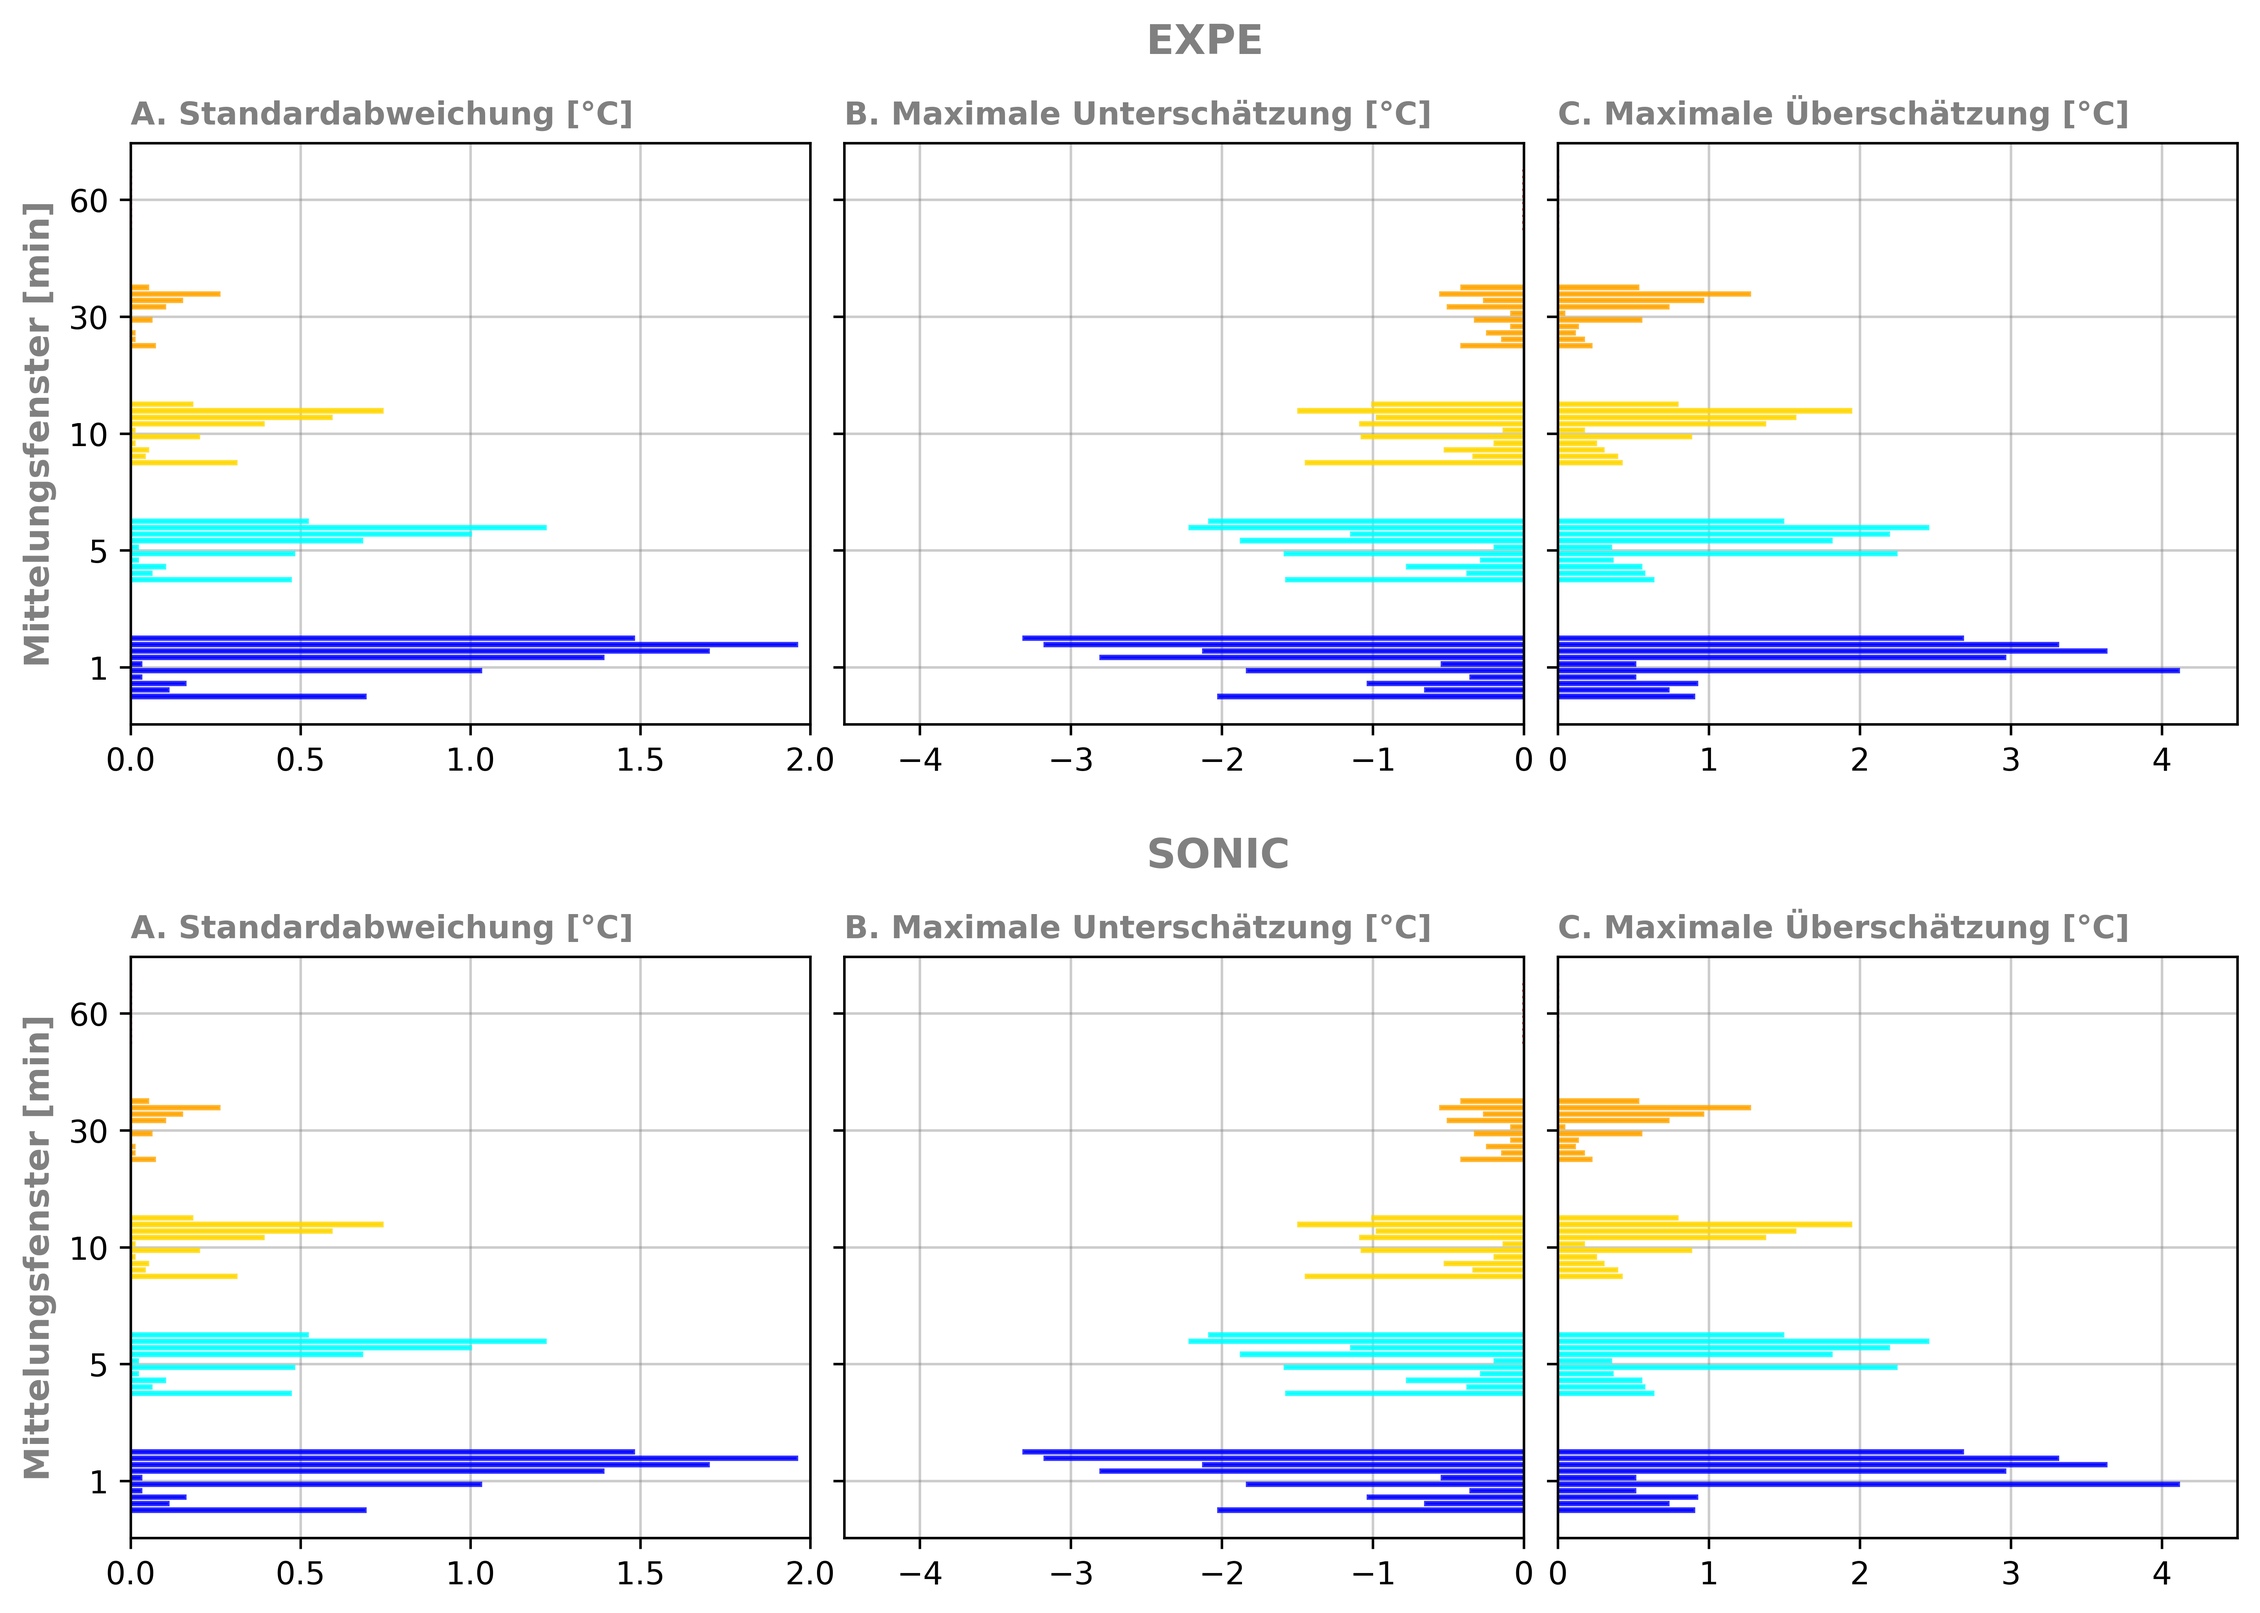
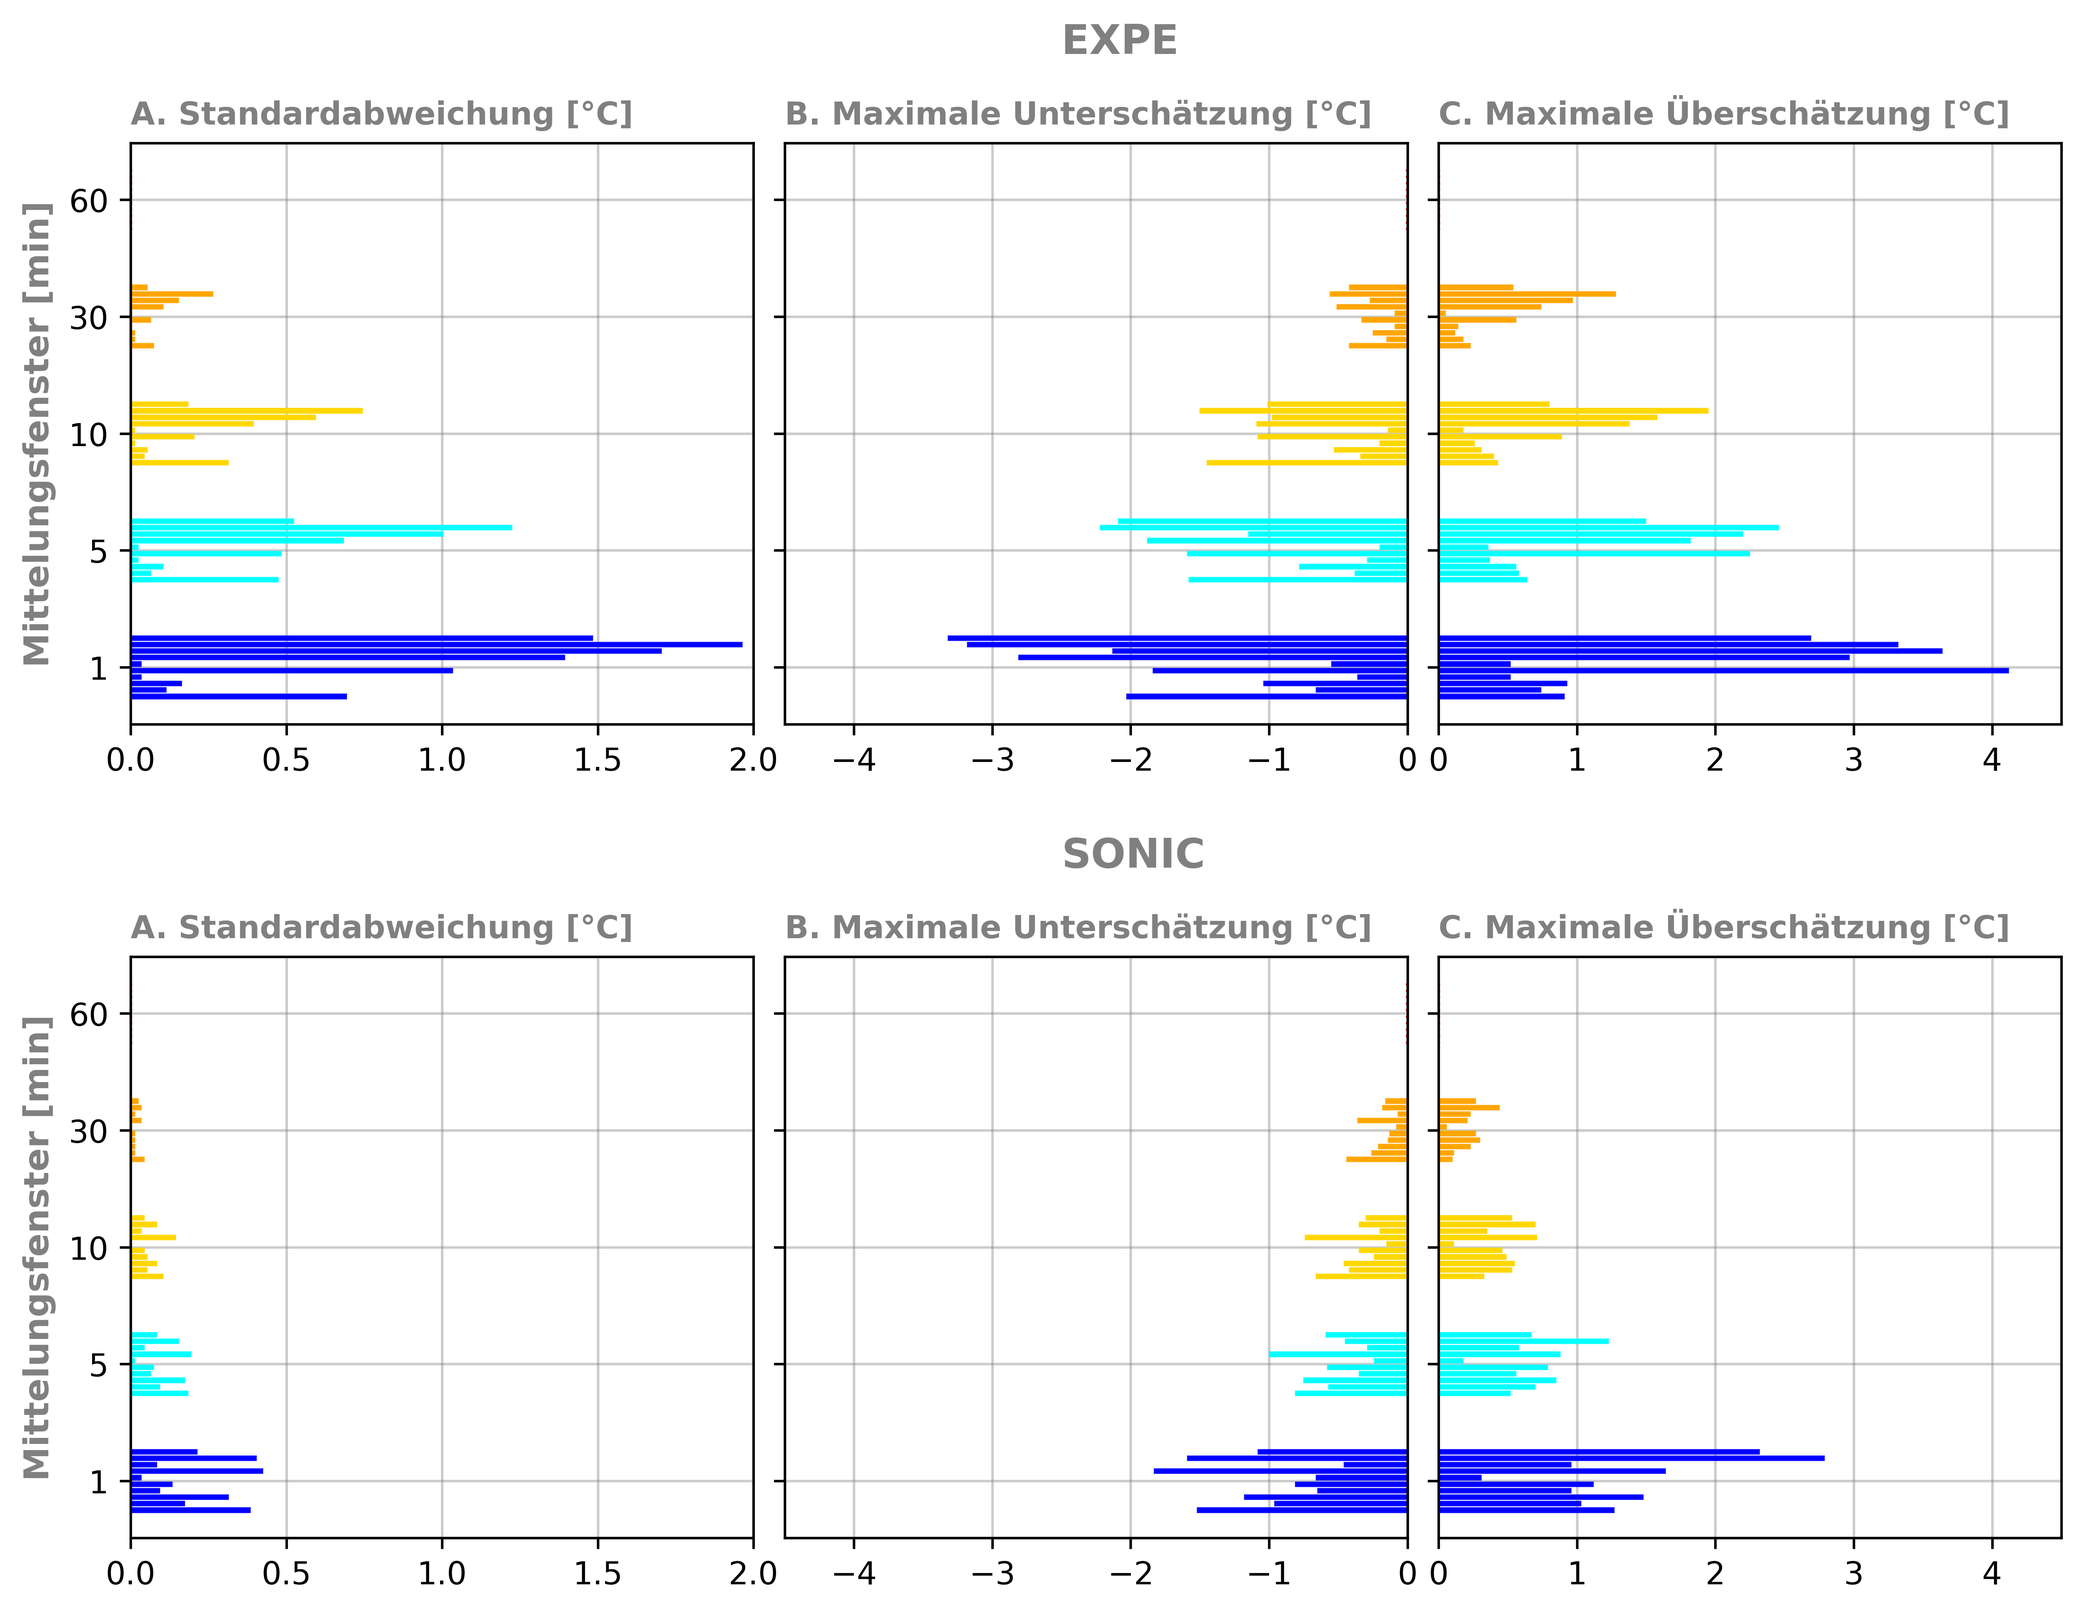
🐛 Fix plotting bug in error_metrics

diff --git a/src/Python_3_11_3/main_plotting.py b/src/Python_3_11_3/main_plotting.py
@@ -117,30 +117,30 @@ if PLOT_AVERAGING:
     print("Plot averaging...")
     error_metrics = pd.DataFrame()
     
-    for period in all_puos:
-        _, _, start_datetime, end_datetime, date, _ = metadata(period)
+    # for period in all_puos:
+    #     _, _, start_datetime, end_datetime, date, _ = metadata(period)
         
-        for device in ["EXPE", "SONIC"]:
-            print("\t", period, "&", device)
+    #     for device in ["EXPE", "SONIC"]:
+    #         print("\t", period, "&", device)
 
 
 
-            for var in variables[device]:
-                error_metrics_dict = plot_avg(
-                    x=get_var(device, period, "Datetime"),
-                    y=get_var(device, period, var),
-                    device=device,
-                    title=f"""{labels[var]}\n{date}: {start_datetime[10:-3]} - {end_datetime[10:-3]}\n({device}, {SAMPLE_RATE[device]} Hz)""",
-                    fn=f"avg_{period}_{device}_{var}"
-                    )
+    #         for var in variables[device]:
+    #             error_metrics_dict = plot_avg(
+    #                 x=get_var(device, period, "Datetime"),
+    #                 y=get_var(device, period, var),
+    #                 device=device,
+    #                 title=f"""{labels[var]}\n{date}: {start_datetime[10:-3]} - {end_datetime[10:-3]}\n({device}, {SAMPLE_RATE[device]} Hz)""",
+    #                 fn=f"avg_{period}_{device}_{var}"
+    #                 )
                 
-                error_metrics_dict["PUO"] = period
-                error_metrics_dict["Device"] = device
-                error_metrics_dict["Variable"] = var
+    #             error_metrics_dict["PUO"] = period
+    #             error_metrics_dict["Device"] = device
+    #             error_metrics_dict["Variable"] = var
                 
-                error_metrics = error_metrics.append(error_metrics_dict, ignore_index=True)
+    #             error_metrics = error_metrics.append(error_metrics_dict, ignore_index=True)
                 
-    error_metrics.to_csv("data/avg_error_metrics.csv", index=False)
+    # error_metrics.to_csv("data/avg_error_metrics.csv", index=False)
 
     plot_error_metrics()
 

diff --git a/src/Python_3_11_3/plot.py b/src/Python_3_11_3/plot.py
@@ -629,7 +629,7 @@ def plot_error_metrics(fn: str = "data/avg_error_metrics.csv") -> None:
     all_puos = all_puos[1:]
 
     # Plot
-    _, ax = plt.subplots(nrows=2, ncols=3, figsize=(12, 8), sharey=True)
+    _, ax = plt.subplots(nrows=2, ncols=3, figsize=(11, 8), sharey=True)
 
     def get_data(df, device: str, puo: str, metric: str) -> list[float]:
         """Helper function to provide data for plotting."""
@@ -657,13 +657,23 @@ def plot_error_metrics(fn: str = "data/avg_error_metrics.csv") -> None:
         off = offsets[i]
 
         for (row_i, col_i) in [(0,0), (1,0), (0,1), (1,1), (0,2), (1,2)]:
-            barlist = ax[row_i, col_i].barh(
+
+            # EXPE
+            barlist = ax[0, col_i].barh(
                 y=[j + off for j in range(5)], 
                 width=get_data(df, device="EXPE", puo=puo, metric=plotting_agenda[row_i, col_i]), 
                 height=0.02, label=puo, zorder=2, alpha=0.8)
             for i in range(5):
                 barlist[i].set_color(colors[i])
-    
+        
+            # SONIC
+            barlist = ax[1, col_i].barh(
+                y=[j + off for j in range(5)], 
+                width=get_data(df, device="SONIC", puo=puo, metric=plotting_agenda[row_i, col_i]), 
+                height=0.02, label=puo, zorder=2, alpha=0.8)
+            for i in range(5):
+                barlist[i].set_color(colors[i])
+                
     for (row_i, col_i) in [(0,0), (1,0), (0,1), (1,1), (0,2), (1,2)]:
         ax[row_i, col_i].set_yticks(range(5))
         ax[row_i, col_i].set_yticklabels([1, 5, 10, 30, 60])    
